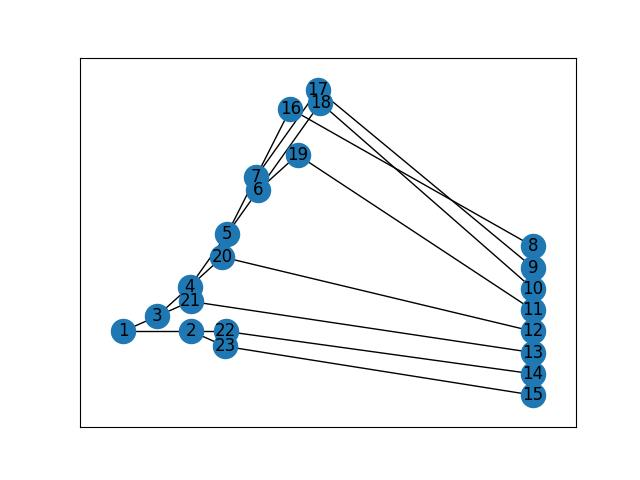
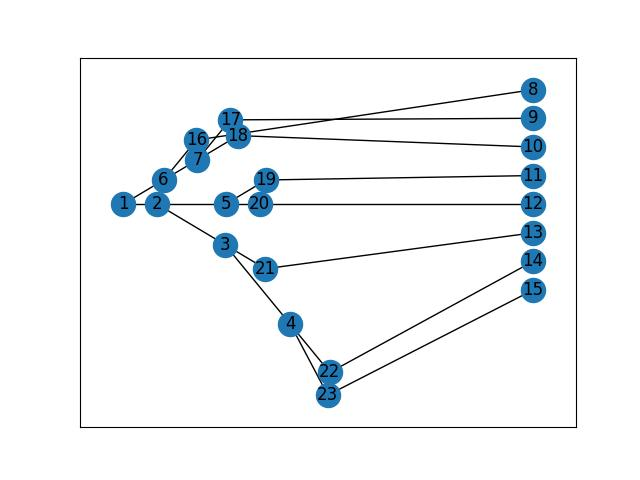
plan fix

Changed region(s): [[0.1562, 0.1562, 0.875, 0.875], [0.5312, 0.5938, 0.625, 0.625]]

diff --git a/main.py b/main.py
@@ -28,8 +28,8 @@ class Tree:
         self.n = n
         self.choice = c
         self.order = []
-        self.preorder = []
-        self.inorder = []
+        self.preorder = [1,2,3,4,5,6,7]
+        self.inorder = [3,2,4,1,6,5,7]
         self.root = None
         self.direction_list = []
         self.direction_index = []
@@ -168,7 +168,7 @@ class Tree:
             self.inorder = copy(self.order)
             self.order_generator()
 
-        if not a:
+        if a:
             self.order_generator()
 
         while flag:
